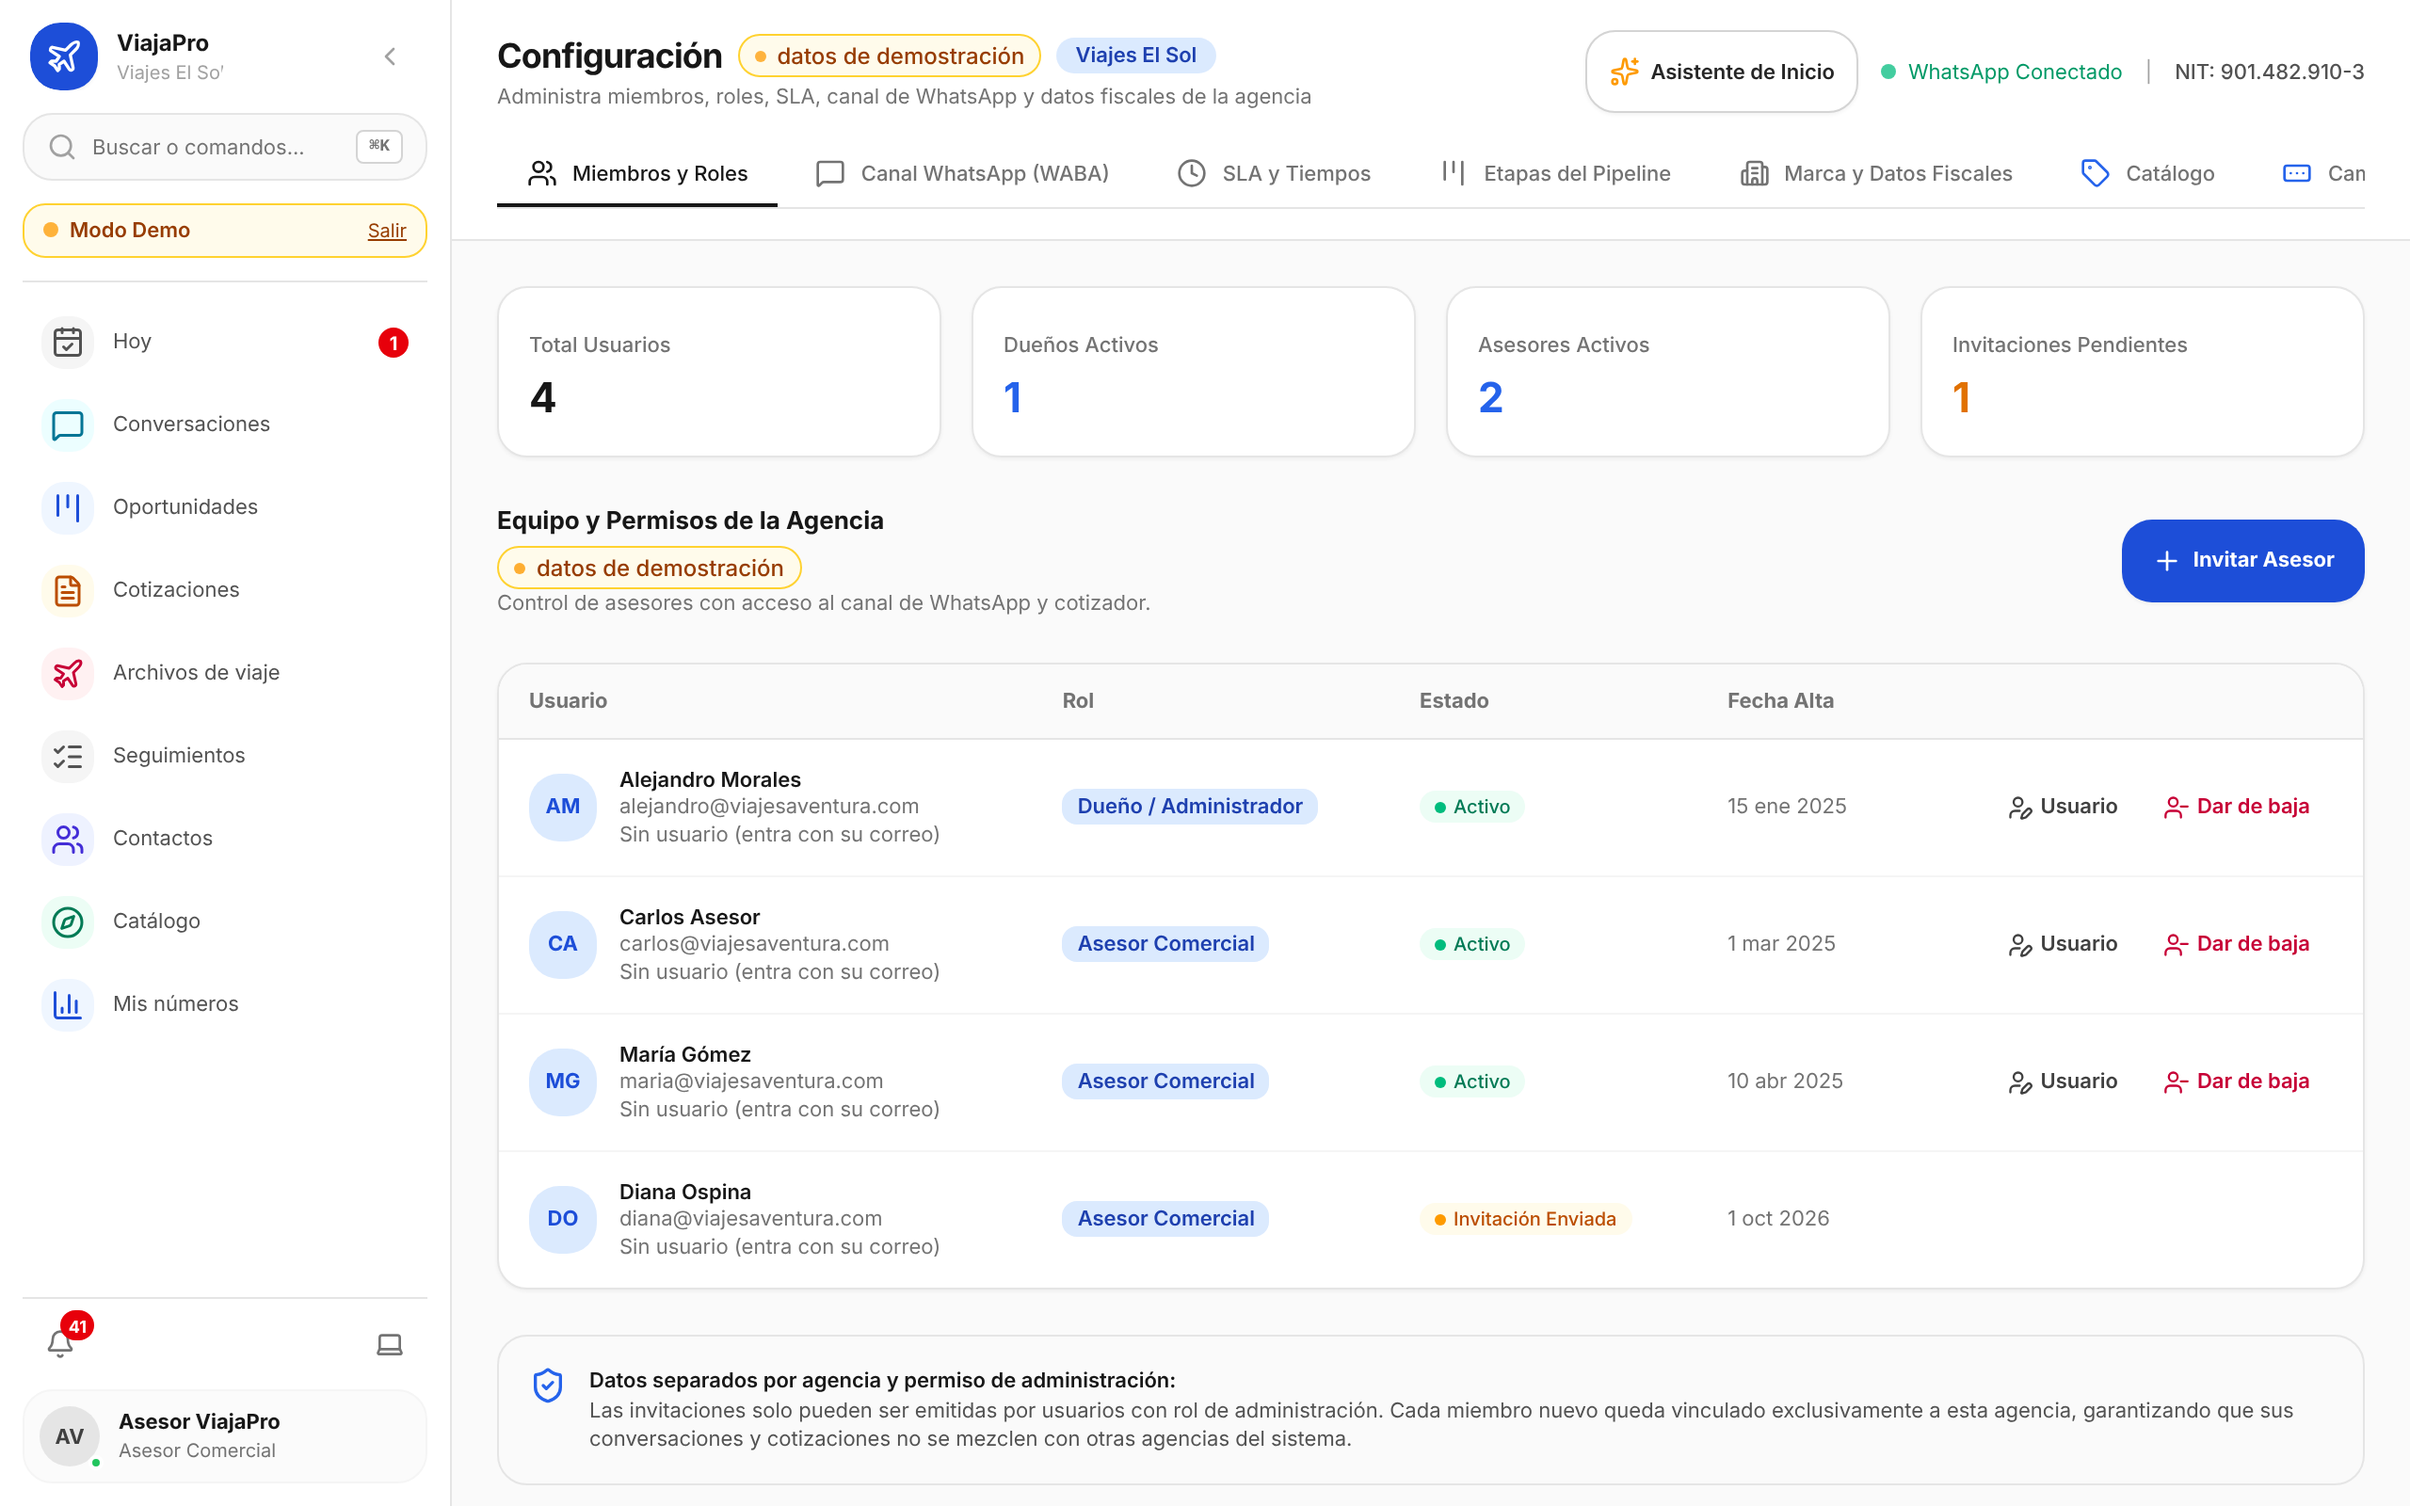
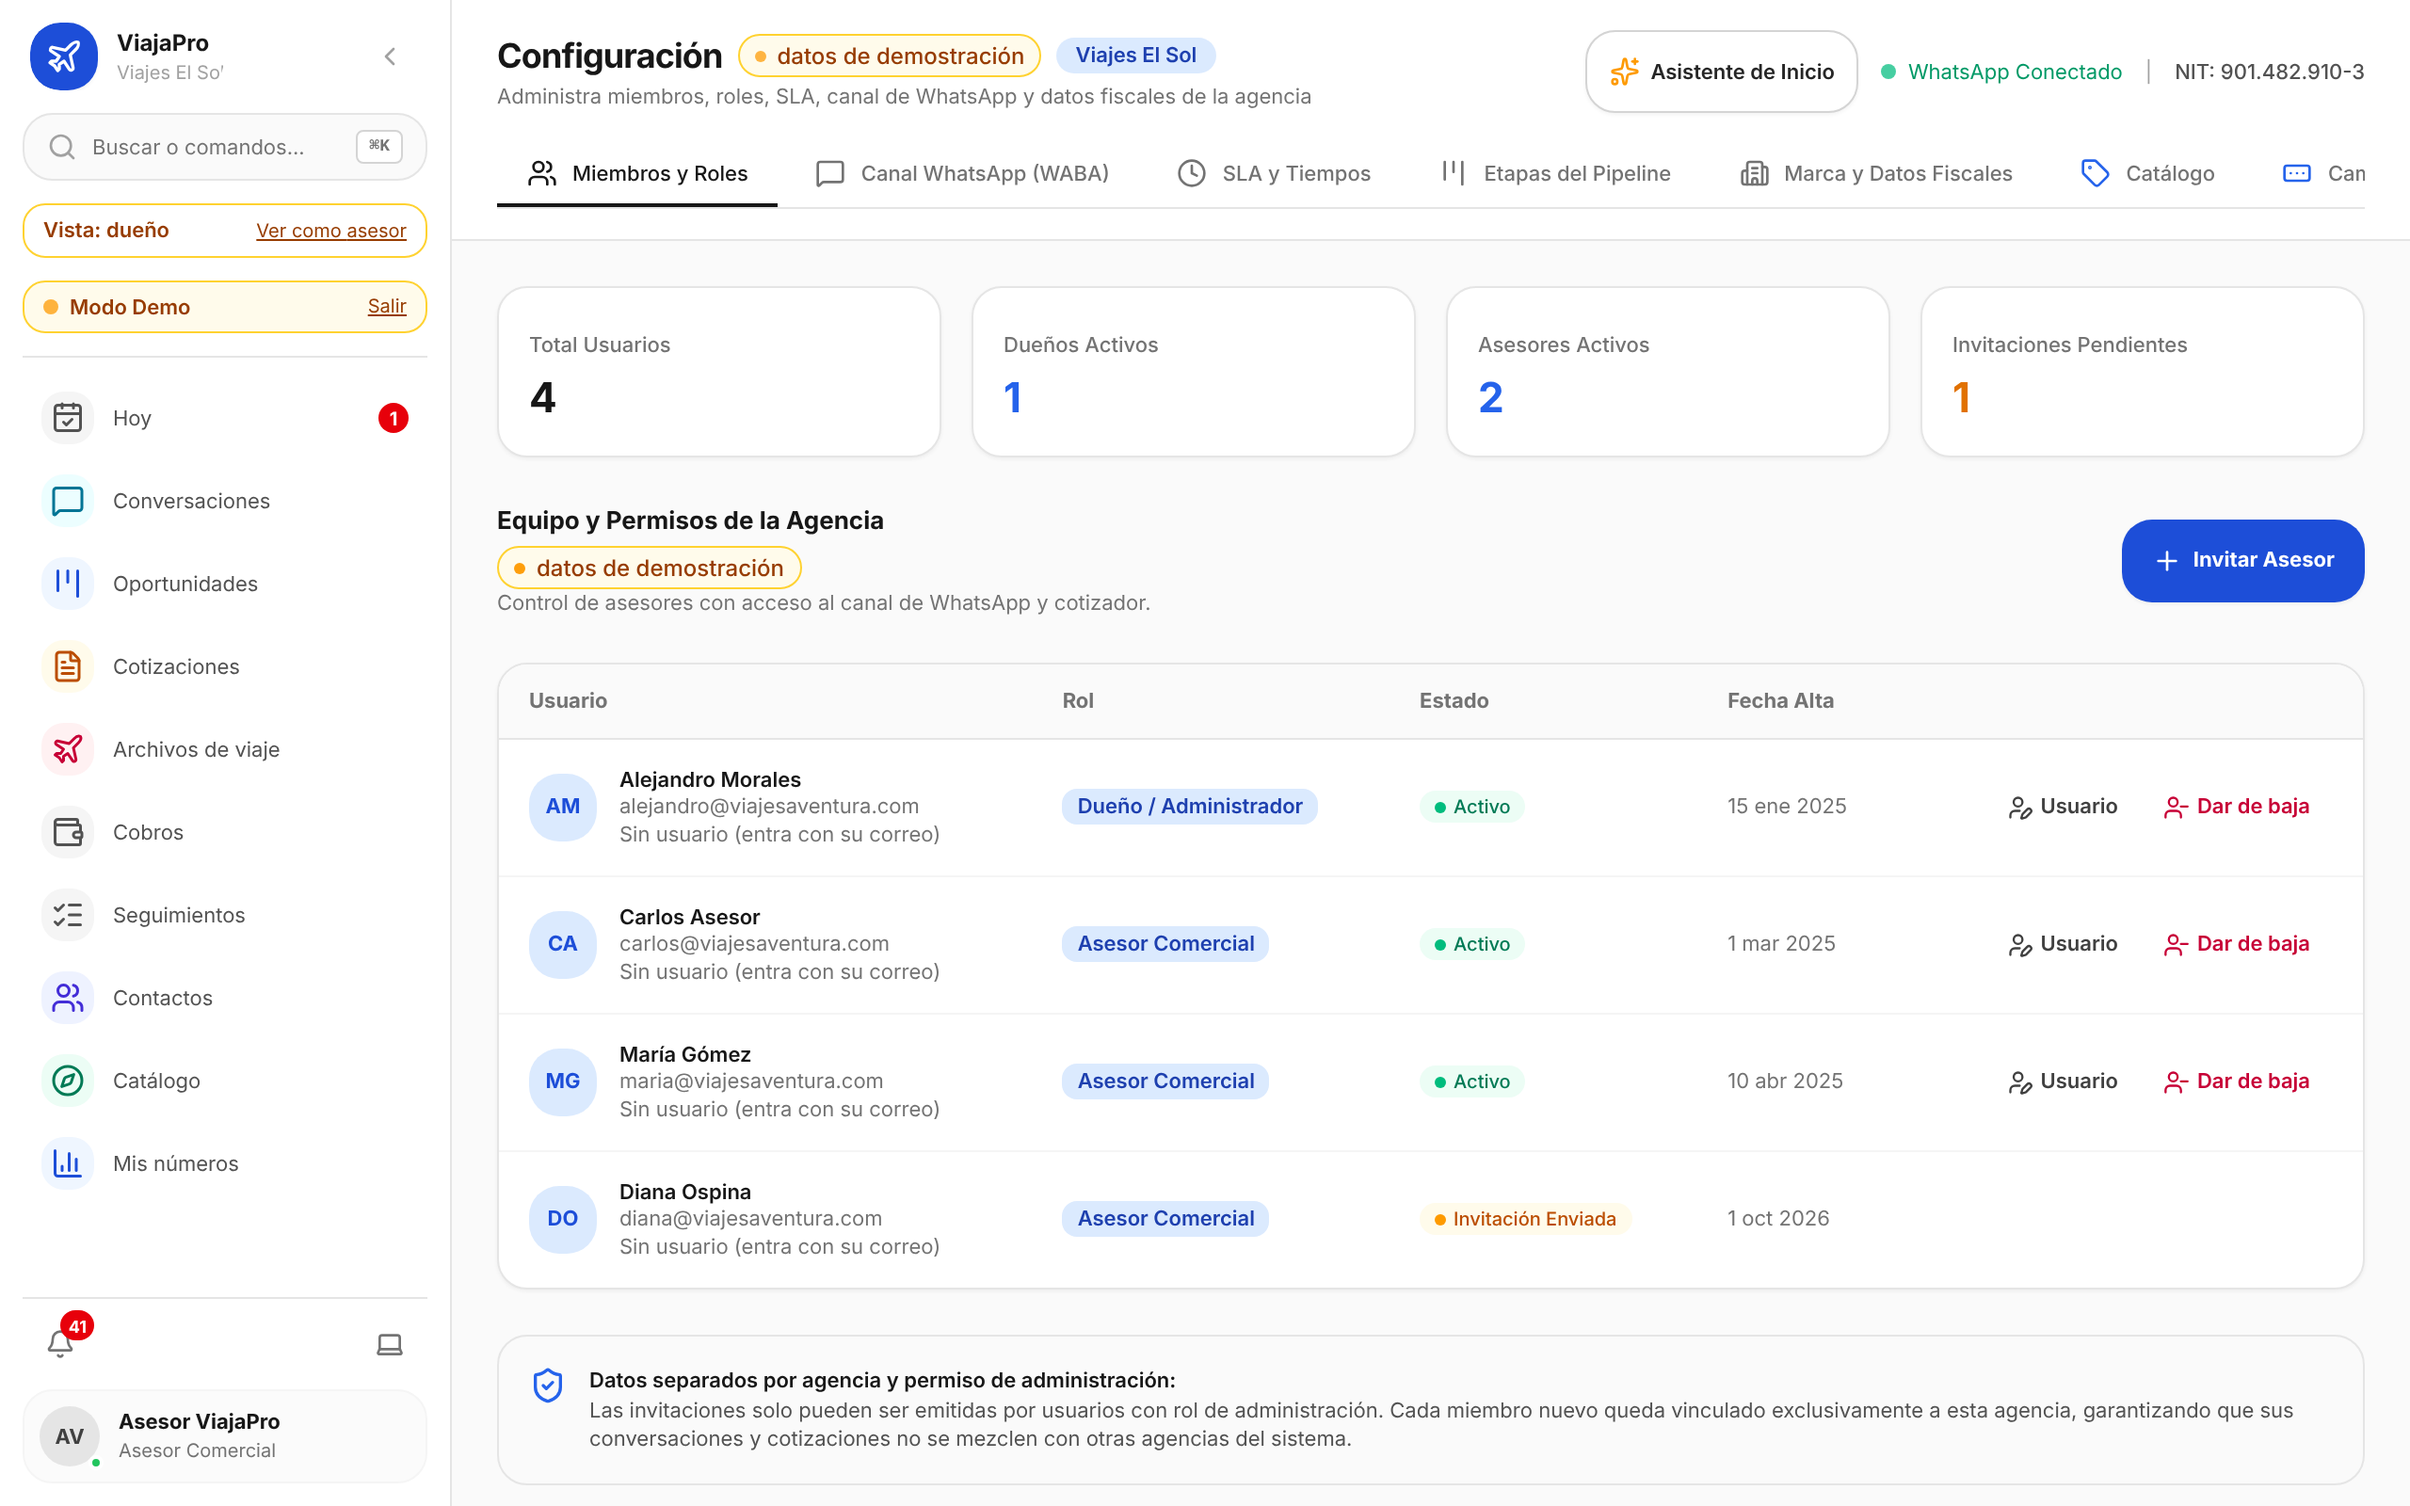
docs(hilo): el recorrido del asesor describe las pantallas de hoy (T-576)
El manual que se le ensena a una agencia describia dos pantallas que ya
no existen asi: un cartel que T-565 quito y una advertencia sobre el
filtro del dueno que T-566 dejo obsoleta.

Al regenerar aparecio que estaba mas desactualizado de lo que la tarea
decia, y por otro motivo: cambian quince de las dieciseis capturas, y en
catorce lo que cambia es la barra lateral, con la insignia de vista y la
entrada de cobros, no el contraste. El menu de la introduccion tampoco
listaba cobros.

Queda declarado un cambio que no es determinista: el saludo de la
pantalla de hoy depende de la hora en que se toma la captura.

Incluye el hilo al dia, con las cifras recalculadas sobre la cola y no de
memoria, y corrige su aviso sobre el cierre automatico de tareas, que era
un sintoma mal diagnosticado.

Claude-Session: https://claude.ai/code/session_01R81Xh4xCBnaheEL9Gxa6TL

diff --git a/docs/06-manual/01-recorrido-del-asesor.md b/docs/06-manual/01-recorrido-del-asesor.md
@@ -6,9 +6,11 @@ y, cuando algo todavía no existe, **lo dice**.
 > **Antes de empezar:** las capturas son de la demostración («Viajes El Sol», datos de muestra), no
 > de una agencia real. Léete las [tres advertencias](README.md#léelo-con-estas-tres-advertencias).
 
-El menú de la izquierda (en el celular, la barra de abajo y la hoja «Más») tiene siempre las mismas
-entradas: **Hoy · Conversaciones · Oportunidades · Cotizaciones · Archivos de viaje · Seguimientos ·
-Contactos · Catálogo · Mis números**. Con la lupa de arriba («Buscar o comandos…», también `Ctrl K` o
+El menú de la izquierda (en el celular, la barra de abajo y la hoja «Más») muestra las entradas que tu
+perfil permite. Un asesor ve: **Hoy · Conversaciones · Oportunidades · Cotizaciones · Archivos de viaje ·
+Seguimientos · Contactos · Catálogo · Mis números**. Quien tiene permisos de dueño ve además **Cobros**
+(y **Configuración**), y su última entrada se llama «Reportes de la agencia». Las capturas de este manual,
+salvo la del paso 11, están tomadas con la vista del dueño, por eso muestran «Cobros». Con la lupa de arriba («Buscar o comandos…», también `Ctrl K` o
 `⌘K`) llegas a cualquier pantalla escribiendo su nombre.
 
 ---
@@ -35,9 +37,6 @@ tu computador o celular. Dentro de la aplicación, el mismo ajuste está en el i
 lateral, junto a la campana: cada clic pasa de *Sistema* a *Claro*, de *Claro* a *Oscuro* y de *Oscuro* de
 vuelta a *Sistema*. Las capturas de este manual están en tema claro.
 
-- El recuadro verde de arriba del formulario («Modo de Producción… Conectado a la API») **solo
-  refleja cómo está configurada la aplicación; no comprueba que el servidor esté respondiendo**. En
-  la captura sale así aunque se tomó sin ninguna API (T-565).
 - Tu sesión se cierra sola tras un rato sin actividad; la pantalla te lo avisa y vuelves a ingresar.
 - Verás cada agencia por separado: **nunca** aparecen conversaciones, contactos ni cotizaciones de otra
   agencia.
@@ -243,10 +242,9 @@ por cobrar de tus archivos.
 
 - Si tu perfil solo ve lo propio, el título es **«Mis números»**; el dueño ve **«Reportes de la
   agencia»** (ver [su recorrido](02-recorrido-del-dueno.md#6-reportes-de-toda-la-agencia)).
-- ⚠ **La captura de arriba no es la vista de un asesor puro.** El usuario de la demostración tiene
-  permisos de dueño, así que la pantalla se titula «Reportes de la agencia»; para acercarse a lo que ve
-  un asesor se eligió el filtro **«Míos»**. Con un asesor real, el título y el menú dicen «Mis números» y
-  desaparece la comparación entre asesores (T-566).
+- La captura está tomada con la **vista de asesor** de la demostración: el título y el menú dicen «Mis
+  números», sin Configuración ni Cobros y sin la comparación entre asesores (T-566). Esa vista solo existe
+  en la demostración: en la barra lateral, «Vista: asesor» alterna con «Vista: dueño».
 - Cuando hay pocos datos (por ejemplo, menos de 20 cotizaciones enviadas), el sistema **no muestra
   porcentaje** en vez de mostrar uno engañoso.
 - Algunas cifras propias, como tus cotizaciones abiertas y tus cobros por cobrar, **aún no se calculan

diff --git a/ESTADO.md b/ESTADO.md
@@ -10,10 +10,10 @@
 
 | Campo | Valor |
 |---|---|
-| Última actualización | 2026-11-21, **lote nocturno de cobros y permisos** (PR #475, #476 y #477; [bitácora](docs/_bitacora/2026-11-21-lote-nocturno-cobros-permisos-y-adr.md)) |
-| Actualizado por | Claude, sesión madre `session_01R81Xh5mmenvvqrBAdaBUW1` (hilo al día con los PR #289 a #477) |
+| Última actualización | 2026-11-21, **lote de contraste, pasajeros en cobros y manual** (PR #479, #480, #481, #482 y #484) |
+| Actualizado por | Claude, sesión madre `session_01R81Xh4xCBnaheEL9Gxa6TL` (hilo al día con los PR #289 a #484) |
 | Fase | **Fase 1 del backlog: «Un CRM mostrable y endurecido»** (M1 del [roadmap v2](docs/08-roadmap/01-roadmap.md)). Sin agencia real todavía. Prioridad vigente: la demo a JD Tours ([`MARCO.md`](docs/_contexto/MARCO.md) §6) |
-| Avance | **249 tareas `done`** en `roadmap/tasks.yaml` (555 en total; **303 abiertas, 4 P0 y 12 P1**, que eran 17). «Done» significa integrada en `main`, **no** desplegada ni probada con Meta real. **Quedan 4 P0**, y ninguna es de código: esperan despliegue, al propietario o un recorrido manual. **Aviso: el cierre automático de tareas no cierra nada** (comprobado en tres lotes seguidos), así que toda cifra de avance hay que confirmarla a mano |
+| Avance | **252 tareas `done`** en `roadmap/tasks.yaml` (564 en total; **309 abiertas, 4 P0 y 15 P1**). «Done» significa integrada en `main`, **no** desplegada ni probada con Meta real. **Quedan 4 P0**, y ninguna es de código: esperan despliegue, al propietario o un recorrido manual. **Corregido el 2026-11-21:** el aviso de que «el cierre automático no cierra nada» era un síntoma mal diagnosticado. `scripts/cerrar-tarea.mjs` valida la cola entera antes de tocar nada, y tres tareas `blocked` sin `blocked_reason` (T-334, T-336, T-584) lo abortaban, así que **ningún** PR cerraba su tarea. Arreglado. Además, el job **no escribe en `main`**: deja una rama `i/cerrar-T-XXX-prNNN` cuyo PR hay que integrar, o la tarea no llega a `done` |
 | Próximo hito | **El despliegue y la lista de chats de JD Tours, las dos del propietario.** A eso se suma ahora **la muestra de su hoja de reservas**, sin la cual T-334 y T-336 no arrancan (punto 12 de los pendientes). El código que impedía enseñar la demostración ya está en `main`: se puede aceptar una cotización desde la pantalla (T-563), verla con los ojos de un asesor (T-566) y el ingreso dejó de afirmar una conexión que no comprobaba (T-565). Después, la clave de cifrado y la prueba con Meta real (T-080) |
 
 ---

diff --git a/docs/_bitacora/2026-11-21-manual-al-dia.md b/docs/_bitacora/2026-11-21-manual-al-dia.md
@@ -1,0 +1,26 @@
+# 2026-11-21 — El manual vuelve a describir las pantallas de hoy (T-576)
+
+**Participantes:** agente `documentador`
+**Duración / alcance:** `docs/06-manual/`: dos notas obsoletas, capturas regeneradas, menú del asesor.
+
+## Qué se hizo
+- Paso 1 del recorrido del asesor: se quitó la nota del recuadro verde «Conectado a la API» (T-565 lo retiró).
+- Paso 11: se quitó la advertencia del filtro «Míos». `capturas.mjs` ahora toma `asesor-11-mis-numeros` con
+  `/reportes?vista=asesor` (vista de asesor puro de la demostración, T-566). La captura muestra el título «Mis números».
+- `regenerar-capturas.md`: se quitó la misma afirmación del recuadro verde.
+- Se regeneraron las 16 capturas (la de ingreso con una compilación aparte con `NEXT_PUBLIC_USE_REAL_AUTH=true`).
+- El menú de la introducción decía que era «siempre el mismo»: ya no lo es. El dueño ve además «Cobros» (T-332).
+
+## Decisiones tomadas
+| Decisión | Razón | Dónde quedó registrada |
+|---|---|---|
+| Las capturas salvo la 11 siguen en vista de dueño | La vista de asesor quita entradas del menú; cambiarlas todas era alcance extra | Introducción del recorrido del asesor |
+
+## Qué quedó pendiente
+- [ ] El saludo de «Hoy» («buenas tardes/noches») depende de la hora de la captura: la imagen cambia sin que cambie la pantalla.
+- [ ] El manual no explica la insignia «Vista: dueño/asesor» más que con una línea en el paso 11.
+
+## Qué aprendimos
+- Al regenerar todo, casi todas las capturas cambian por la barra lateral (insignia «Vista», entrada «Cobros»), no por T-583.
+- T-569 hizo visibles el botón «Guardar etapas» y los iconos de «Etapas del Pipeline»; T-583 cambió contrastes en reportes.
+- La captura de ingreso exige reconstruir la web con `NEXT_PUBLIC_USE_REAL_AUTH=true`.

diff --git a/docs/06-manual/regenerar-capturas.md b/docs/06-manual/regenerar-capturas.md
@@ -45,8 +45,8 @@ la insignia «datos de demostración» y entran directo a «Hoy».
   pudimos verificar tu sesión», porque no hay API que la confirme.
 
 Por eso: compila con `NEXT_PUBLIC_USE_REAL_AUTH=true`, toma solo `asesor-01-ingreso`, y vuelve a
-compilar **sin** esa variable para todas las demás. El recuadro verde del formulario («Conectado a la
-API y PostgreSQL en vivo») sale igual aunque no haya API: refleja la configuración, no una comprobación.
+compilar **sin** esa variable para todas las demás. Desde T-565 el formulario ya no muestra el recuadro
+verde de conexión.
 
 ## Generar las capturas: un comando
 
